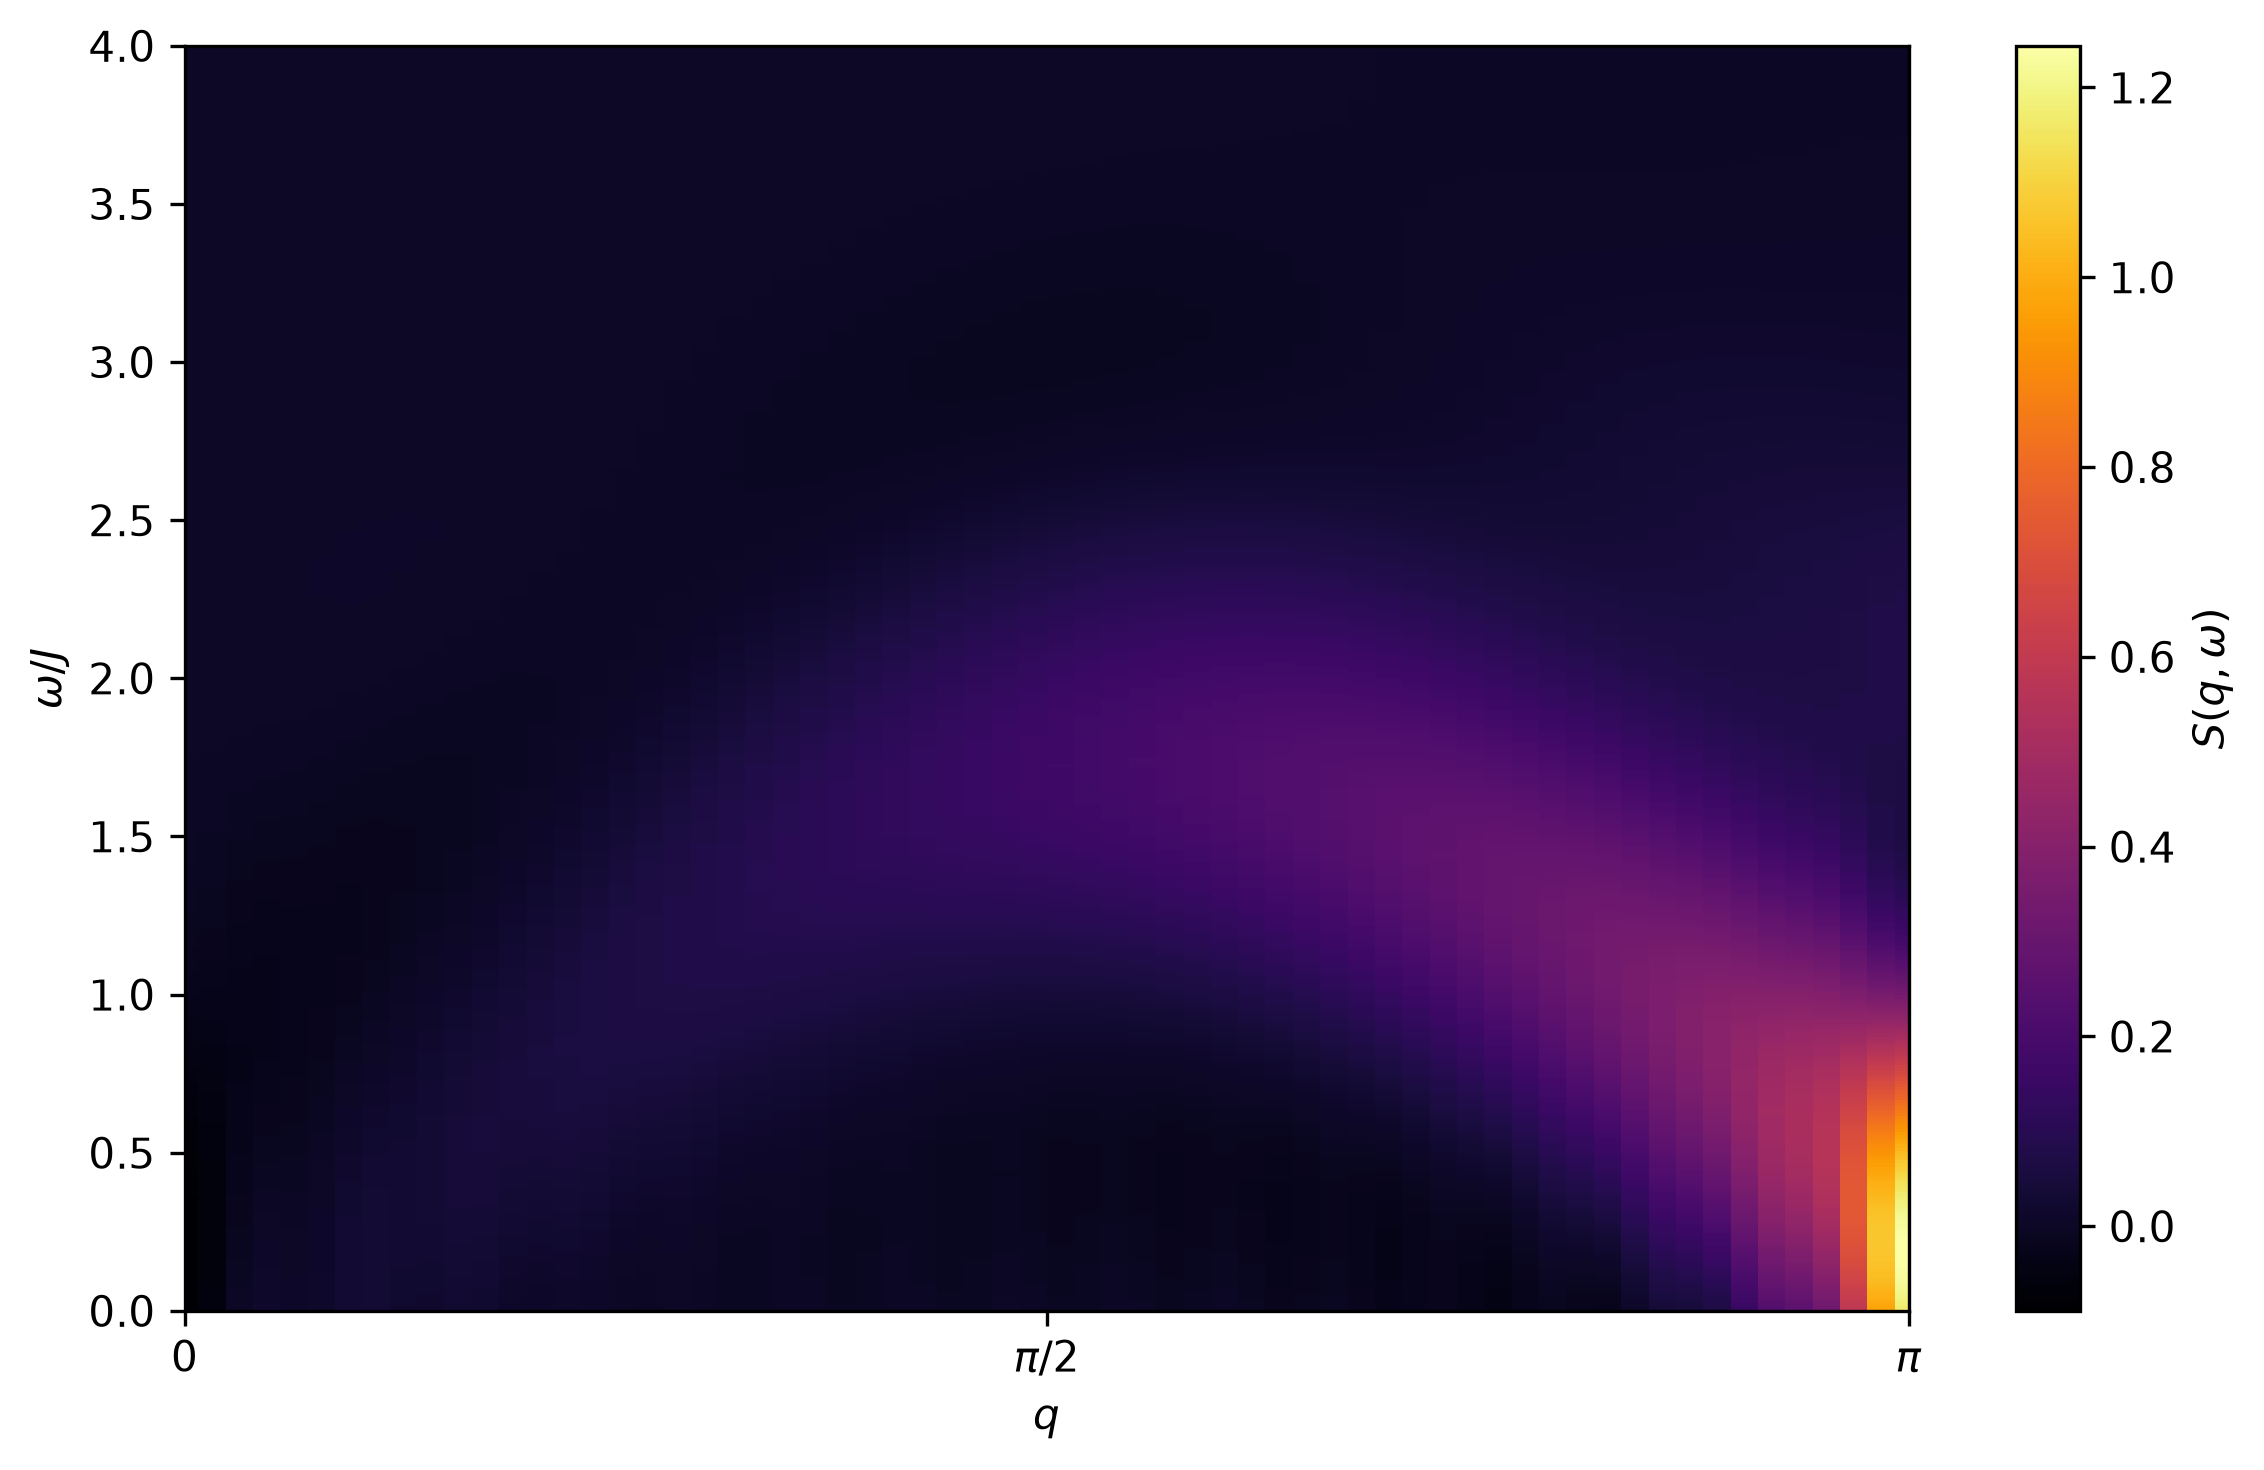
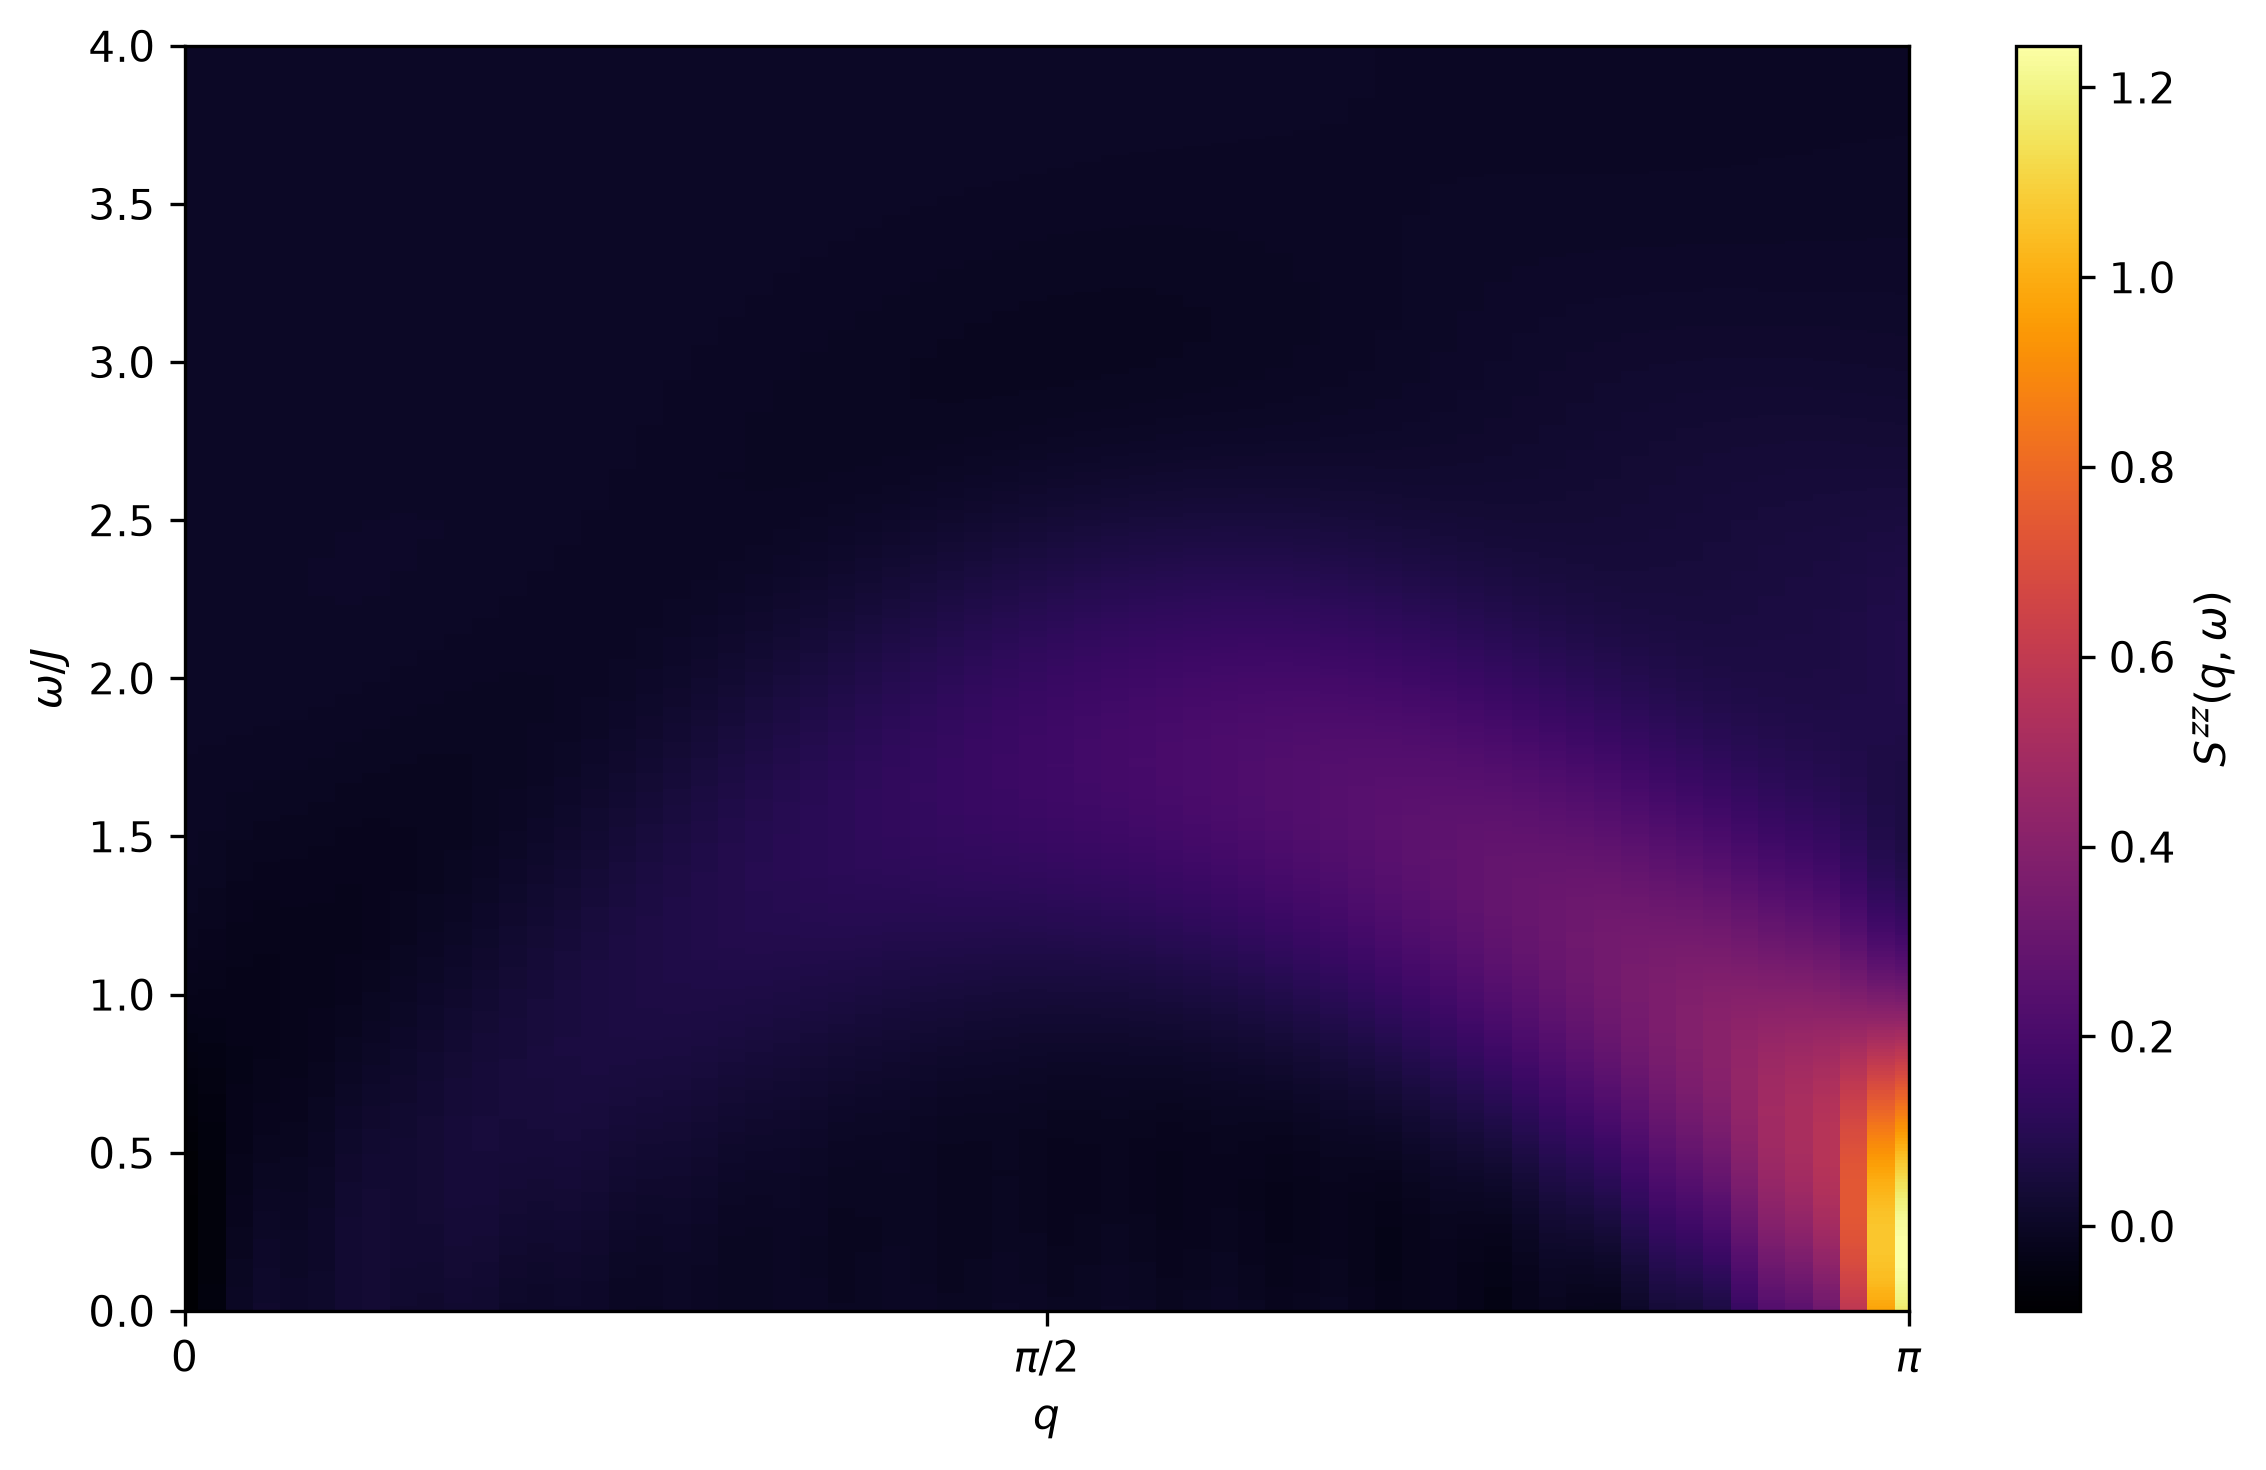
add readme

diff --git a/sqw_tebd.py b/sqw_tebd.py
@@ -125,7 +125,7 @@ plt.figure(figsize=(8, 5))
 plt.pcolormesh(q_vals, omega_vals, Sqw.T, shading="auto", cmap="inferno")
 plt.xlabel(r"$q$")
 plt.ylabel(r"$\omega/J$")
-plt.colorbar(label=r"$S(q,\omega)$")
+plt.colorbar(label=r"$S^{zz}(q,\omega)$")
 plt.xlim(0, np.pi)
 plt.xticks([0, np.pi/2, np.pi], [r"$0$", r"${\pi}/{2}$", r"$\pi$"])
 plt.ylim(0, 4)

diff --git a/README.md b/README.md
@@ -1,0 +1,101 @@
+# Dynamical Structure Factor \(S(q,w)\)
+
+This repository contains Python codes to calculate the dynamical structure factor \(S(q,w)\) of the 1D spin-1/2 Heisenberg model using exact diagonalization (ED) and time-evolving block decimation (TEBD).
+
+## Physical Background
+
+Inelastic neutron scattering probes magnetic excitations as a function of momentum transfer q and energy transfer w.
+
+The dynamical structure factor (DSF), \(S(q,w)\), characterizes spin correlations resolved in momentum and energy. It is related to the space- and time-dependent spin correlation function \(G(r,t)\) through a Fourier transform:
+
+$$
+S(q,w)\propto
+\sum_r\int dt\,e^{i(w t-qr)}G(r,t).
+$$
+
+The precise normalization and Fourier-transform convention depend on the definition of \(G(r,t)\).
+
+## Model: 1D Spin-1/2 Heisenberg Model
+
+The 1D spin-1/2 Heisenberg Hamiltonian is following:
+
+$$
+H=J\sum_{i=1}^{L-1}
+\mathbf{S}_i\cdot\mathbf{S}_{i+1},
+$$
+
+where \(J>0\) is the antiferromagnetic exchange coupling. Open boundary conditions (OBC) are used.
+
+## ED: 8 Sites
+
+Calculate \(S(q,w)\) for a chain of \(L=8\) sites using exact diagonalization.
+
+Calculation flow:
+
+1. Construct the Hamiltonian \(H\).
+2. Diagonalize \(H\) to obtain the ground state \(|\psi_0\rangle\) and energy eigenstates\(\E_0\).
+3. Calculate the dynamical structure factor \(S(q,w)\).
+
+ED provides an accurate reference for small systems, but the computational cost increases rapidly with system size.
+
+## TEBD: 64 Sites
+
+Calculate \(S(q,w)\) for a chain of \(L=64\) sites using DMRG and TEBD.
+
+Calculation flow:
+
+1. Construct the Hamiltonian \(H\).
+
+2. Obtain the ground state \(|\psi_0\rangle\) and ground-state energy \(E_0\) using DMRG.
+
+3. Apply a local spin operator at the central site \(c\):
+
+   $$
+   |\phi(0)\rangle=S_c^z|\psi_0\rangle.
+   $$
+
+4. Evolve the resulting state in time using TEBD:
+
+   $$
+   |\phi(t)\rangle=e^{-iHt}|\phi(0)\rangle.
+   $$
+
+5. Calculate the time-dependent spin correlation function:
+
+   $$
+   G(n,c;t)=e^{iE_0t}
+   \langle\psi_0|S_n^z|\phi(t)\rangle.
+   $$
+
+6. Fourier transform the spatial coordinate to obtain \(G(q,t)\).
+
+7. Fourier transform time to obtain \(S(q,w)\).
+
+TEBD uses a matrix product state (MPS) representation to simulate the time evolution of a larger system than is typically accessible with ED.
+
+## Numerical Considerations
+L = 8 (ED), 64 (TEBD) \
+J = 1.0 \
+H = qtn.MPO_ham_heis(L,j=J,cyclic=False)
+c = L // 2 \
+t_max = 20 \
+dt = 0.05 \
+dt_obs = dt \ 
+Gaussian window
+sigma_t = t_max / 3 \
+
+For the temporal Gaussian window
+
+$$
+W(t)=e^{-t^2/(2\sigma_t^2)},
+\qquad \sigma_t=t_{\max}/3,
+$$
+
+
+## Comparison: ED and TEBD
+
+ED treats small systems directly, whereas DMRG+TEBD enables simulations of larger chains using MPS. Comparing their results can help assess finite-size effects and validate the TEBD calculation.
+
+
+![Dynamical structure factor S(q, w)](sqw_ed.png)
+![Dynamical structure factor S(q, w)](sqw_tebd.png)
